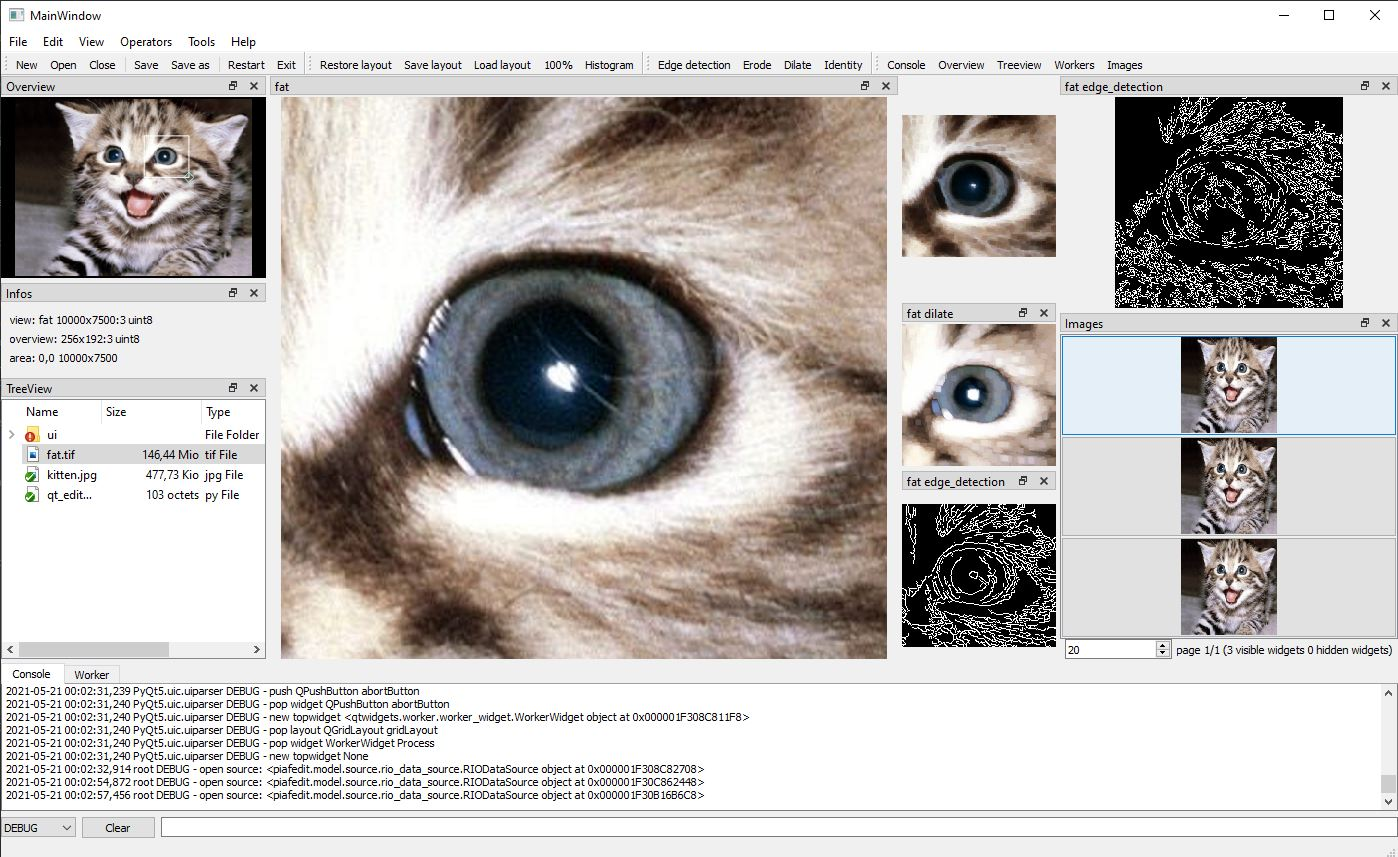
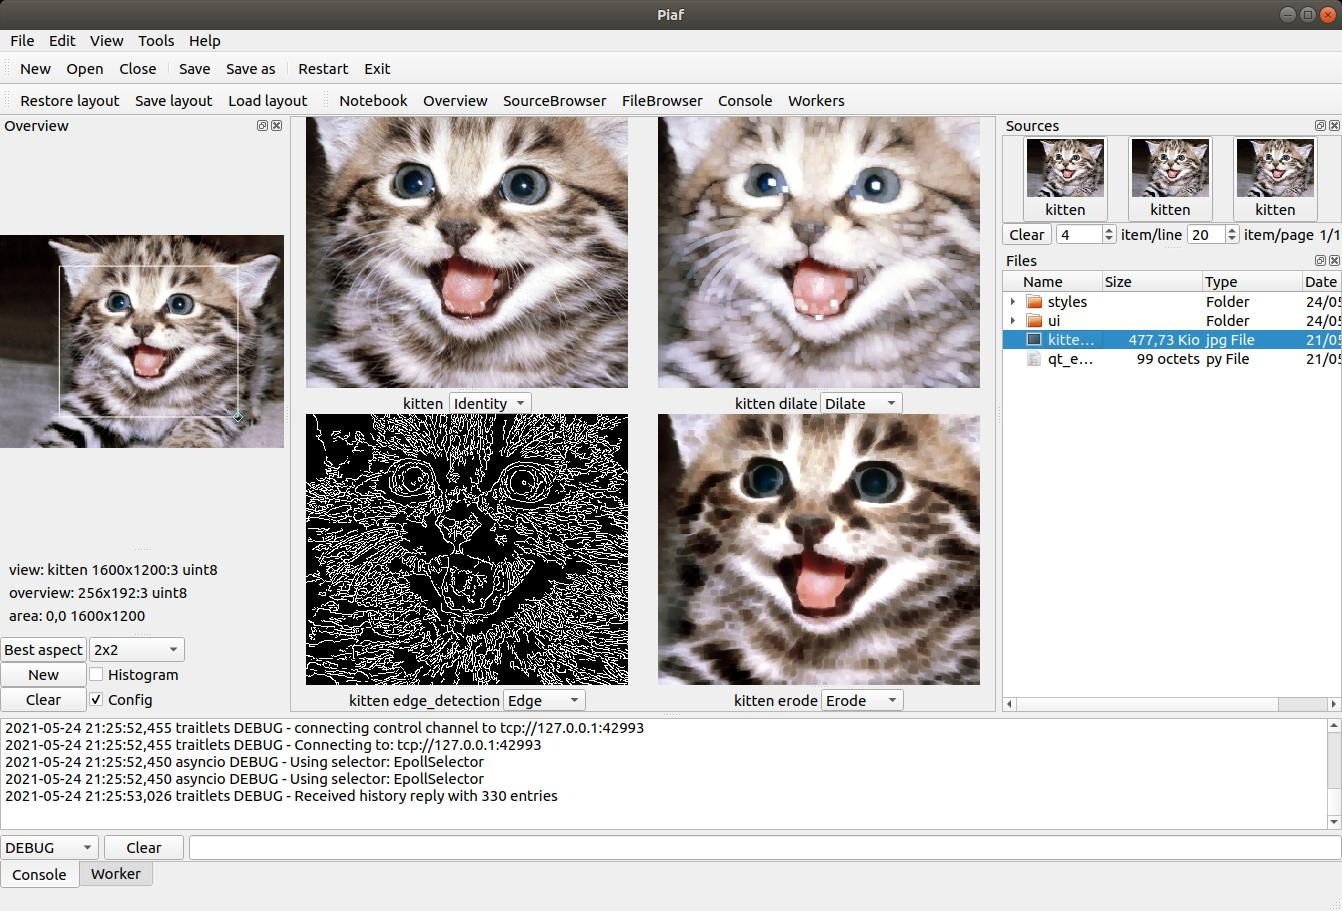
feat: better interface for multiple view

diff --git a/piafedit/gui/image/full_overview.py b/piafedit/gui/image/full_overview.py
@@ -1,16 +1,21 @@
 from PyQt5.QtWidgets import QWidget
 
+from piafedit.gui.browser.source_browser import SourceBrowser
 from piafedit.ui_utils import load_ui
+from qtwidgets.browser.browser_config import BrowserConfig
 
 
 class FullOverview(QWidget):
     def __init__(self):
         super().__init__()
         load_ui('overview', self)
+        self.bestAspectButton.clicked.connect(lambda: self.view.optimize_aspect())
 
         self.newButton.clicked.connect(lambda: self.view.create_view())
         self.clearButton.clicked.connect(lambda: self.view.views.clear())
-        self.histogramButton.clicked.connect(lambda: self.view.views.switch_histogram())
+        self.histogram.stateChanged.connect(lambda status: self.view.views.set_histogram(status))
+        self.config.stateChanged.connect(lambda status: self.view.views.set_config(status))
+        self.layoutCombo.currentTextChanged.connect(self.on_layout_change)
 
     def create_view(self):
         return self.view.create_view()
@@ -19,3 +24,36 @@ class FullOverview(QWidget):
         self.view.close()
         self.infos.close()
         super().closeEvent(ev)
+
+    def on_layout_change(self, name: str):
+        cases = {
+            '1x1': BrowserConfig(
+                item_per_line=1,
+                item_per_page=1,
+            ),
+            '2x1': BrowserConfig(
+                item_per_line=2,
+                item_per_page=2,
+            ),
+
+            '2x2': BrowserConfig(
+                item_per_line=2,
+                item_per_page=4,
+            ),
+
+            '3x2': BrowserConfig(
+                item_per_line=3,
+                item_per_page=6,
+            ),
+            '3x3': BrowserConfig(
+                item_per_line=3,
+                item_per_page=9,
+            ),
+        }
+
+        config = cases[name]
+
+        from piafedit.editor_api import P
+        browser: SourceBrowser = P.main_window.main_view
+
+        browser.set_config(config)

diff --git a/piafedit/gui/image/overview.py b/piafedit/gui/image/overview.py
@@ -25,26 +25,20 @@ class RoiController:
         self.roi = roi
         self.request_update()
 
+    def set_aspect(self, aspect: float):
+        old = self.roi.center
+        if aspect < self.roi.aspect_ratio:
+            self.roi.size.height = self.roi.size.width / aspect
+        else:
+            self.roi.size.width = self.roi.size.height * aspect
+        dx = self.roi.center.x - old.x
+        dy = self.roi.center.y - old.y
+
+        self.roi.move(-dx, -dy)
+
     def request_update(self):
         self.subject.on_next(self.roi.copy())
 
-    def pg_roi(self):
-        roi = pg.RectROI(PointAbs(0, 0).raw(), SizeAbs(0, 0).raw())
-        roi.sigRegionChanged.connect(self.update_rect)
-
-    def update_rect(self):
-        if self.source is None:
-            return
-        rx, ry = self.compute_roi_rect_ratio()
-        rect = roi_to_rect(self.the_roi).scale(rx, ry)
-        self.window.move(rect)
-
-    def compute_roi_rect_ratio(self):
-        over = self.source.overview_size(self.overview_size)
-        full = self.source.infos().size
-        rx = full.width / over.width
-        ry = full.height / over.height
-        return rx, ry
 
 class Overview(SourceView):
     def __init__(self, parent=None):
@@ -57,6 +51,15 @@ class Overview(SourceView):
         self.the_roi.sigRegionChanged.connect(self.update_rect)
         self.addItem(self.the_roi)
 
+    def optimize_aspect(self):
+        from piafedit.editor_api import P
+        win = P.main_window.main_view
+        a1 = win.width() / win.height()
+        print(win.width(), win.height(), a1)
+
+        aspect = a1
+        self.window.set_aspect(aspect)
+        self.update_roi()
 
     def set_source(self, source: DataSource):
         super().set_source(source)

diff --git a/piafedit/gui/image/view_manager.py b/piafedit/gui/image/view_manager.py
@@ -8,12 +8,14 @@ from qtwidgets.observablelist import observablelist
 class ViewManager:
     def __init__(self):
         self.histogram_status = False
+        self.config_status = False
         self.views: List[SourceView] = observablelist()
 
     def create_view(self, op: Operator = None):
         from piafedit.gui.image.full_roi_view import FullRoiView
         view = FullRoiView()
         view.view.set_histogram(self.histogram_status)
+        view.set_config(self.config_status)
         view.view.set_operator(op)
         self.views.append(view)
         return view
@@ -25,11 +27,18 @@ class ViewManager:
         for view in self.views:
             view.close()
 
-    def switch_histogram(self):
-        self.histogram_status = not self.histogram_status
-        self.set_histogram(self.histogram_status)
+    def set_config(self, status: bool):
+        self.config_status = status
+        for view in self.views:
+            view.set_config(status)
 
     def set_histogram(self, status: bool):
         self.histogram_status = status
         for view in self.views:
-            view.set_histogram(status)
+            view.view.set_histogram(status)
+
+    def switch_histogram(self):
+        self.set_histogram(not self.histogram_status)
+
+    def switch_config(self):
+        self.set_config(not self.config_status)

diff --git a/piafedit/gui/main_ui.py b/piafedit/gui/main_ui.py
@@ -14,7 +14,7 @@ from piafedit.model.source.data_source import DataSource
 from piafedit.model.source.rio_data_source import RIODataSource
 from piafedit.model.work_model import WorkModel
 from piafedit.ui_utils import load_ui
-from qtwidgets.browser.browser_config import BrowserConfig, Page
+from qtwidgets.browser.browser_config import BrowserConfig
 from qtwidgets.browser.browser_widget import BrowserWidget
 from qtwidgets.dock_widget import DockWidget
 from qtwidgets.worker.worker_manager_widget import WorkerManagerWidget
@@ -36,10 +36,13 @@ class MainUi(QMainWindow):
         processes: WorkerManagerWidget = self.worker
         processes.set_model(self.model.workers)
 
+        self.main_view.toolBar.hide()
+
         # source browser
         self.source_browser.set_model(self.model.sources)
         self.source_browser.set_config(BrowserConfig(
-            page=Page(size=20)
+            item_per_line=4,
+            item_per_page=20
         ))
 
         self.actions = ActionMapper(self)

diff --git a/piafedit/gui/browser/source_browser.py b/piafedit/gui/browser/source_browser.py
@@ -1,7 +1,7 @@
 from piafedit.editor_api import P
 from piafedit.gui.browser.image_drag_handler import ImageDragHandler
 from piafedit.model.source.data_source import DataSource
-from qtwidgets.browser.browser_config import BrowserConfig, Item, Page
+from qtwidgets.browser.browser_config import BrowserConfig
 from qtwidgets.browser.browser_widget import BrowserWidget
 from qtwidgets.gallery.image_button import ImageButton
 
@@ -11,12 +11,8 @@ class SourceBrowser(BrowserWidget):
         super().__init__(
             builder=self.builder,
             config=BrowserConfig(
-                item=Item(
-                    width=150
-                ),
-                page=Page(
-                    size=20
-                )
+                item_per_line=4,
+                item_per_page=20
             ))
         ImageDragHandler().patch(self)
 

diff --git a/piafedit/gui/action_mapper.py b/piafedit/gui/action_mapper.py
@@ -41,11 +41,9 @@ class ActionMapper:
         # self.win.actionSourceBrowser.triggered.connect(lambda: self.win.open_dock('SourceBrowser', SourceBrowser))
 
     def setup_view(self):
-        self.win.action100.triggered.connect(print)
         self.win.actionRestore_layout.triggered.connect(self.restore_default_gui)
         self.win.actionSave_layout.triggered.connect(self.save_gui)
         self.win.actionLoad_layout.triggered.connect(self.load_gui)
-        self.win.actionHistogram.triggered.connect(self.switch_histogram)
         self.win.actionLoad_layout.setDisabled(not LAYOUT_BACKUP_PATH.exists())
 
     def setup_files(self):

diff --git a/piafedit/gui/image/full_roi_view.py b/piafedit/gui/image/full_roi_view.py
@@ -13,6 +13,12 @@ class FullRoiView(QWidget):
         self.view.changed_subject.subscribe(on_next=lambda view: self.infos.setText(view.view_name()))
         self.operatorCombo.currentTextChanged.connect(self.on_op_change)
 
+    def set_config(self, status: bool):
+        if status:
+            self.operators.show()
+        else:
+            self.operators.hide()
+
     def subscribe(self, overview: Overview):
         self.view.subscribe(overview)
 

diff --git a/piafedit/model/source/tile_source.py b/piafedit/model/source/tile_source.py
@@ -50,7 +50,7 @@ class TileSource(DataSource):
                 b = tile.crop(buffer)
                 if b.shape == tile_buffer.shape:
                     b[...] = tile_buffer
-        return buffer[:window.size.height, :window.size.width, ...]
+        return buffer[:window.item_per_page.height, :window.item_per_page.width, ...]
 
     def write(self, buffer: Buffer, window: RectAbs = None):
         self.source.write(buffer, window)

diff --git a/tests/test_torch.py b/tests/test_torch.py
@@ -20,7 +20,7 @@ class MyModel(pl.LightningModule):
 
     def training_step(self, batch, batch_idx):
         x, y = batch
-        x = x.view(x.size(0), -1)
+        x = x.view(x.item_per_page(0), -1)
         y_hat = self(x)
         loss = F.mse_loss(y_hat, y)
         return loss

diff --git a/README.md b/README.md
@@ -1,5 +1,5 @@
 # piaf-edit
 
-Piaf Is Another Fabulous Editor ...
+Piaf Is Another Formidable Editor ...
 
 ![](docs/img/piaf.jpg)
